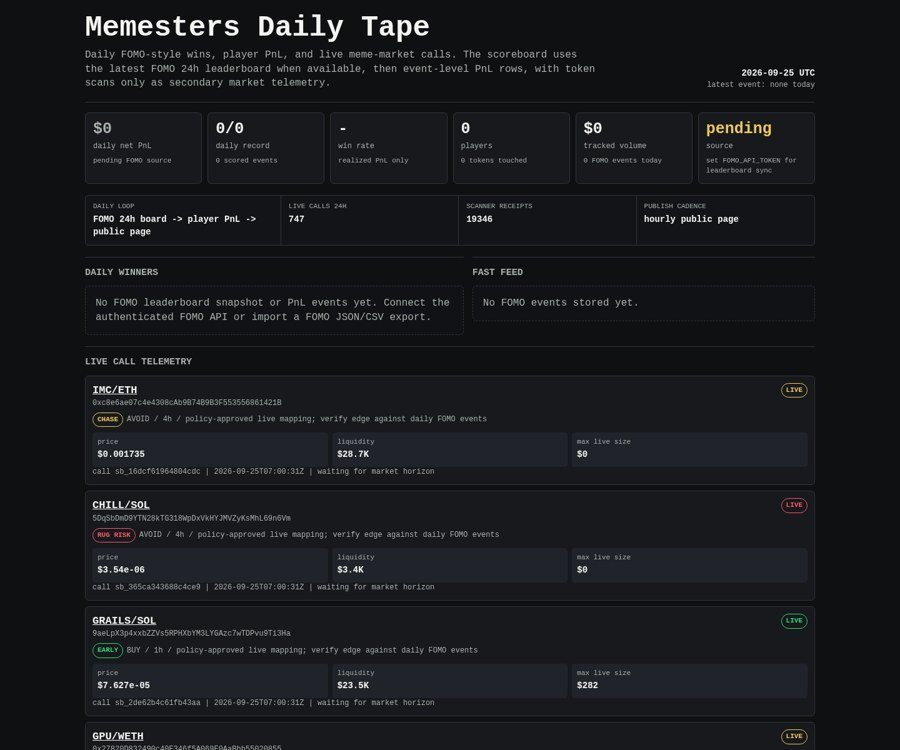
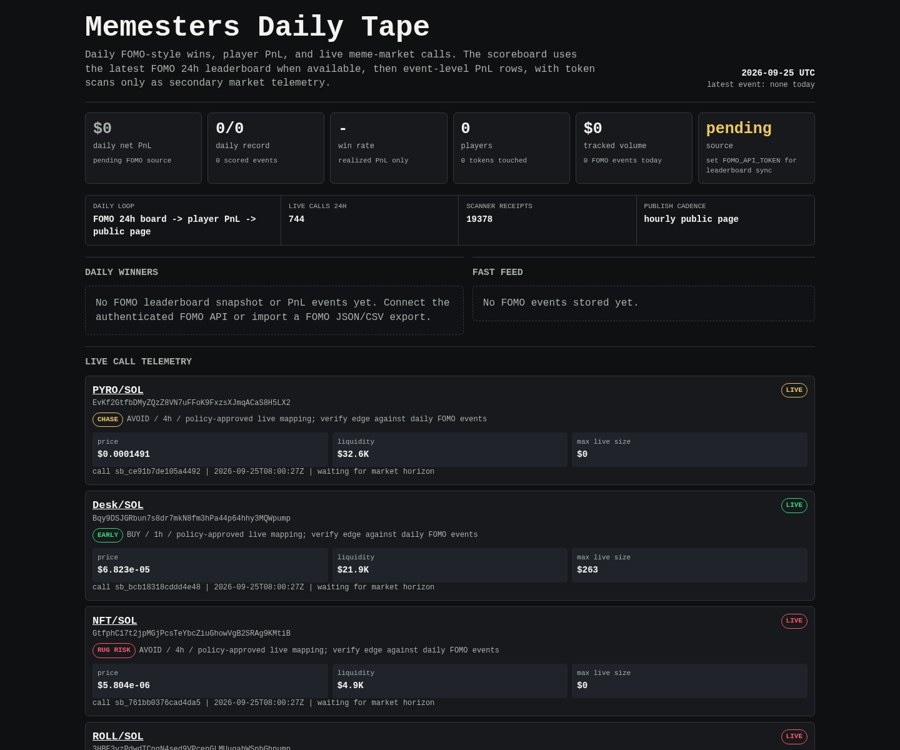
Update Memesters scoreboard

diff --git a/memesters/index.html b/memesters/index.html
@@ -149,8 +149,8 @@
 
     <div class="rail" aria-label="live operating loop">
       <div><span>daily loop</span><b>FOMO 24h board -> player PnL -> public page</b></div>
-      <div><span>live calls 24h</span><b>747</b></div>
-      <div><span>scanner receipts</span><b>19346</b></div>
+      <div><span>live calls 24h</span><b>744</b></div>
+      <div><span>scanner receipts</span><b>19378</b></div>
       <div><span>publish cadence</span><b>hourly public page</b></div>
     </div>
 
@@ -171,8 +171,8 @@
     <article class="receipt">
       <div class="receipt-head">
         <div>
-          <div class="pair"><a href="https://dexscreener.com/ethereum/0x015940c5d40c0d4b2237e5e5e9bf97ff194b0ea006f2c00add1e34b182e51b80">IMC/ETH</a></div>
-          <div class="addr">0xc8e6ae07c4e4308cAb9B74B9B3F553556861421B</div>
+          <div class="pair"><a href="https://dexscreener.com/solana/b4a9heild6bzngr7daf57f8usc9tvvfhtvddgvhgnenm">PYRO/SOL</a></div>
+          <div class="addr">EvKf2GtfbDMyZQzZ8VN7uFFoK9FxzsXJmqACaS8H5LX2</div>
           <div class="addr policy-line">
             <span class="badge chase">CHASE</span>
             <span>AVOID / 4h / policy-approved live mapping; verify edge against daily FOMO events</span>
@@ -181,40 +181,19 @@
         <span class="badge chase">LIVE</span>
       </div>
       <div class="receipt-grid">
-        <div class="kv"><span>price</span><b>$0.001735</b></div>
-        <div class="kv"><span>liquidity</span><b>$28.7K</b></div>
+        <div class="kv"><span>price</span><b>$0.0001491</b></div>
+        <div class="kv"><span>liquidity</span><b>$32.6K</b></div>
         <div class="kv"><span>max live size</span><b>$0</b></div>
       </div>
-      <div class="outcomes">call sb_16dcf61964804cdc | 2026-09-25T07:00:31Z | waiting for market horizon</div>
+      <div class="outcomes">call sb_ce91b7de105a4492 | 2026-09-25T08:00:27Z | waiting for market horizon</div>
     </article>
     
 
     <article class="receipt">
       <div class="receipt-head">
         <div>
-          <div class="pair"><a href="https://dexscreener.com/solana/cczcc2zsvqntky92jrtsvdnjw5ekxmzm4deys3fwbbh5">CHILL/SOL</a></div>
-          <div class="addr">5DqSbDmD9YTN28kTG318WpDxVkHYJMVZyKsMhL69n6Vm</div>
-          <div class="addr policy-line">
-            <span class="badge rug-risk">RUG RISK</span>
-            <span>AVOID / 4h / policy-approved live mapping; verify edge against daily FOMO events</span>
-          </div>
-        </div>
-        <span class="badge rug-risk">LIVE</span>
-      </div>
-      <div class="receipt-grid">
-        <div class="kv"><span>price</span><b>$3.54e-06</b></div>
-        <div class="kv"><span>liquidity</span><b>$3.4K</b></div>
-        <div class="kv"><span>max live size</span><b>$0</b></div>
-      </div>
-      <div class="outcomes">call sb_365ca343688c4ce9 | 2026-09-25T07:00:31Z | waiting for market horizon</div>
-    </article>
-    
-
-    <article class="receipt">
-      <div class="receipt-head">
-        <div>
-          <div class="pair"><a href="https://dexscreener.com/solana/5cnapaswfynaw911gmquyqpz9p5yyk416t59ki3leg3q">GRAILS/SOL</a></div>
-          <div class="addr">9aeLpX3p4xxbZZVs5RPHXbYM3LYGAzc7wTDPvu9Ti3Ha</div>
+          <div class="pair"><a href="https://dexscreener.com/solana/3diqybcjf2fr5mhpjxia5rr4mhgstxjlmyztlzc2vlho">Desk/SOL</a></div>
+          <div class="addr">Bqy9DSJGRbun7s8dr7mkN8fm3hPa44p64hhy3MQWpump</div>
           <div class="addr policy-line">
             <span class="badge early">EARLY</span>
             <span>BUY / 1h / policy-approved live mapping; verify edge against daily FOMO events</span>
@@ -223,19 +202,61 @@
         <span class="badge early">LIVE</span>
       </div>
       <div class="receipt-grid">
-        <div class="kv"><span>price</span><b>$7.627e-05</b></div>
-        <div class="kv"><span>liquidity</span><b>$23.5K</b></div>
-        <div class="kv"><span>max live size</span><b>$282</b></div>
+        <div class="kv"><span>price</span><b>$6.823e-05</b></div>
+        <div class="kv"><span>liquidity</span><b>$21.9K</b></div>
+        <div class="kv"><span>max live size</span><b>$263</b></div>
       </div>
-      <div class="outcomes">call sb_2de62b4c61fb43aa | 2026-09-25T07:00:31Z | waiting for market horizon</div>
+      <div class="outcomes">call sb_bcb18318cddd4e48 | 2026-09-25T08:00:27Z | waiting for market horizon</div>
     </article>
     
 
     <article class="receipt">
       <div class="receipt-head">
         <div>
-          <div class="pair"><a href="https://dexscreener.com/robinhood/0x8009034c2beed25925d6dd75d0948e4887bdbb65">GPU/WETH</a></div>
-          <div class="addr">0x27820D832490c40E346f5A069E0AaBbb55020855</div>
+          <div class="pair"><a href="https://dexscreener.com/solana/hrew3qtcwicgmlrzu7yduthwrejg9cgk6vh1yjvbzpuu">NFT/SOL</a></div>
+          <div class="addr">GtfphC17t2jpMGjPcsTeYbcZiuGhowVgB2SRAg9KMtiB</div>
+          <div class="addr policy-line">
+            <span class="badge rug-risk">RUG RISK</span>
+            <span>AVOID / 4h / policy-approved live mapping; verify edge against daily FOMO events</span>
+          </div>
+        </div>
+        <span class="badge rug-risk">LIVE</span>
+      </div>
+      <div class="receipt-grid">
+        <div class="kv"><span>price</span><b>$5.804e-06</b></div>
+        <div class="kv"><span>liquidity</span><b>$4.9K</b></div>
+        <div class="kv"><span>max live size</span><b>$0</b></div>
+      </div>
+      <div class="outcomes">call sb_761bb0376cad4da5 | 2026-09-25T08:00:27Z | waiting for market horizon</div>
+    </article>
+    
+
+    <article class="receipt">
+      <div class="receipt-head">
+        <div>
+          <div class="pair"><a href="https://dexscreener.com/solana/8yahe11ooefpqzoxvwfn2rkvrpdnbevsbcjxj5fme5pi">ROLL/SOL</a></div>
+          <div class="addr">3HBE3vzPdwdTCpgN4sed9VPcepGLMUugahWSpbGhpump</div>
+          <div class="addr policy-line">
+            <span class="badge rug-risk">RUG RISK</span>
+            <span>AVOID / 4h / policy-approved live mapping; verify edge against daily FOMO events</span>
+          </div>
+        </div>
+        <span class="badge rug-risk">LIVE</span>
+      </div>
+      <div class="receipt-grid">
+        <div class="kv"><span>price</span><b>$9.717e-06</b></div>
+        <div class="kv"><span>liquidity</span><b>$6.9K</b></div>
+        <div class="kv"><span>max live size</span><b>$0</b></div>
+      </div>
+      <div class="outcomes">call sb_f13e3848041a4600 | 2026-09-25T08:00:27Z | waiting for market horizon</div>
+    </article>
+    
+
+    <article class="receipt">
+      <div class="receipt-head">
+        <div>
+          <div class="pair"><a href="https://dexscreener.com/solana/ejfrhusrecjcauqfyl8gyvb84ya4kgrpfyiuin5l9bvt">CLOCKOUT/SOL</a></div>
+          <div class="addr">8NHMCoBLK5HCg9vPGNuBYQLG6fQoxf3cQj46EKokpump</div>
           <div class="addr policy-line">
             <span class="badge chase">CHASE</span>
             <span>AVOID / 4h / policy-approved live mapping; verify edge against daily FOMO events</span>
@@ -244,11 +265,53 @@
         <span class="badge chase">LIVE</span>
       </div>
       <div class="receipt-grid">
-        <div class="kv"><span>price</span><b>$0.0001501</b></div>
-        <div class="kv"><span>liquidity</span><b>$73.0K</b></div>
+        <div class="kv"><span>price</span><b>$0.0001416</b></div>
+        <div class="kv"><span>liquidity</span><b>$36.4K</b></div>
         <div class="kv"><span>max live size</span><b>$0</b></div>
       </div>
-      <div class="outcomes">call sb_7214f92ecdf64731 | 2026-09-25T07:00:31Z | waiting for market horizon</div>
+      <div class="outcomes">call sb_d216719f4bb24f1f | 2026-09-25T08:00:27Z | waiting for market horizon</div>
+    </article>
+    
+
+    <article class="receipt">
+      <div class="receipt-head">
+        <div>
+          <div class="pair"><a href="https://dexscreener.com/solana/14n4n6emjhfjpopy76cb5za2fdjud4d88utafpy47xdq">Adora/SOL</a></div>
+          <div class="addr">G4i1oQ9QHpZt8jVwomeroySgUpk8gHv7SuyjJBr2QNQj</div>
+          <div class="addr policy-line">
+            <span class="badge early">EARLY</span>
+            <span>BUY / 1h / policy-approved live mapping; verify edge against daily FOMO events</span>
+          </div>
+        </div>
+        <span class="badge early">LIVE</span>
+      </div>
+      <div class="receipt-grid">
+        <div class="kv"><span>price</span><b>$7.438e-05</b></div>
+        <div class="kv"><span>liquidity</span><b>$22.8K</b></div>
+        <div class="kv"><span>max live size</span><b>$274</b></div>
+      </div>
+      <div class="outcomes">call sb_a35b7a2832ef47ff | 2026-09-25T08:00:27Z | waiting for market horizon</div>
+    </article>
+    
+
+    <article class="receipt">
+      <div class="receipt-head">
+        <div>
+          <div class="pair"><a href="https://dexscreener.com/robinhood/0x438f3e191bbc97e22c629d2680e632e34ecefb0d5972fc8d76b34dcd500928d9">MONTY/WETH</a></div>
+          <div class="addr">0x309e847c2528C4E37de2074b71F39C9f2C907ba3</div>
+          <div class="addr policy-line">
+            <span class="badge rug-risk">RUG RISK</span>
+            <span>AVOID / 4h / policy-approved live mapping; verify edge against daily FOMO events</span>
+          </div>
+        </div>
+        <span class="badge rug-risk">LIVE</span>
+      </div>
+      <div class="receipt-grid">
+        <div class="kv"><span>price</span><b>$3.406e-07</b></div>
+        <div class="kv"><span>liquidity</span><b>$27.3K</b></div>
+        <div class="kv"><span>max live size</span><b>$0</b></div>
+      </div>
+      <div class="outcomes">call sb_5e8a15dc79374e33 | 2026-09-25T07:45:27Z | waiting for market horizon</div>
     </article>
     
 
@@ -265,11 +328,11 @@
         <span class="badge chase">LIVE</span>
       </div>
       <div class="receipt-grid">
-        <div class="kv"><span>price</span><b>$8.209e-05</b></div>
-        <div class="kv"><span>liquidity</span><b>$23.9K</b></div>
+        <div class="kv"><span>price</span><b>$0.0001199</b></div>
+        <div class="kv"><span>liquidity</span><b>$29.2K</b></div>
         <div class="kv"><span>max live size</span><b>$0</b></div>
       </div>
-      <div class="outcomes">call sb_04d4608a16614f4c | 2026-09-25T07:00:31Z | waiting for market horizon</div>
+      <div class="outcomes">call sb_75f9c2b303b9414b | 2026-09-25T07:45:26Z | waiting for market horizon</div>
     </article>
     
 
@@ -286,11 +349,11 @@
         <span class="badge rug-risk">LIVE</span>
       </div>
       <div class="receipt-grid">
-        <div class="kv"><span>price</span><b>$3.64e-06</b></div>
-        <div class="kv"><span>liquidity</span><b>$5.5K</b></div>
+        <div class="kv"><span>price</span><b>$2.674e-06</b></div>
+        <div class="kv"><span>liquidity</span><b>$4.7K</b></div>
         <div class="kv"><span>max live size</span><b>$0</b></div>
       </div>
-      <div class="outcomes">call sb_358368e6fb6042a9 | 2026-09-25T07:00:31Z | waiting for market horizon</div>
+      <div class="outcomes">call sb_7aba29002c78411e | 2026-09-25T07:45:26Z | waiting for market horizon</div>
     </article>
     
 
@@ -307,74 +370,11 @@
         <span class="badge chase">LIVE</span>
       </div>
       <div class="receipt-grid">
-        <div class="kv"><span>price</span><b>$0.0002745</b></div>
-        <div class="kv"><span>liquidity</span><b>$44.4K</b></div>
+        <div class="kv"><span>price</span><b>$0.0002726</b></div>
+        <div class="kv"><span>liquidity</span><b>$44.2K</b></div>
         <div class="kv"><span>max live size</span><b>$0</b></div>
       </div>
-      <div class="outcomes">call sb_d261a48b13dd43ee | 2026-09-25T07:00:31Z | waiting for market horizon</div>
-    </article>
-    
-
-    <article class="receipt">
-      <div class="receipt-head">
-        <div>
-          <div class="pair"><a href="https://dexscreener.com/solana/8fnzvgdcav5fk2hr9hknzvxrkabqnpfuwi1vxrtv65yi">F2G/SOL</a></div>
-          <div class="addr">3aom1gqjVhPEgxH2voXXTFCG2hzgM3XLk4iEy5vRpump</div>
-          <div class="addr policy-line">
-            <span class="badge rug-risk">RUG RISK</span>
-            <span>AVOID / 4h / policy-approved live mapping; verify edge against daily FOMO events</span>
-          </div>
-        </div>
-        <span class="badge rug-risk">LIVE</span>
-      </div>
-      <div class="receipt-grid">
-        <div class="kv"><span>price</span><b>$3.969e-06</b></div>
-        <div class="kv"><span>liquidity</span><b>$4.7K</b></div>
-        <div class="kv"><span>max live size</span><b>$0</b></div>
-      </div>
-      <div class="outcomes">call sb_6ce8e24d26c043cc | 2026-09-25T06:45:27Z | waiting for market horizon</div>
-    </article>
-    
-
-    <article class="receipt">
-      <div class="receipt-head">
-        <div>
-          <div class="pair"><a href="https://dexscreener.com/bsc/0x5a0f99945abccbfe1b0ff083d7e96bd50aa82bcd">币安月饼/AAPLB</a></div>
-          <div class="addr">0x4392cBaE887bb2CcF3d58bc4D04F782c76B47777</div>
-          <div class="addr policy-line">
-            <span class="badge early">EARLY</span>
-            <span>BUY / 1h / policy-approved live mapping; verify edge against daily FOMO events</span>
-          </div>
-        </div>
-        <span class="badge early">LIVE</span>
-      </div>
-      <div class="receipt-grid">
-        <div class="kv"><span>price</span><b>$0.000101</b></div>
-        <div class="kv"><span>liquidity</span><b>$66.1K</b></div>
-        <div class="kv"><span>max live size</span><b>$117</b></div>
-      </div>
-      <div class="outcomes">call sb_57cd50d07cfc48b2 | 2026-09-25T06:45:27Z | waiting for market horizon</div>
-    </article>
-    
-
-    <article class="receipt">
-      <div class="receipt-head">
-        <div>
-          <div class="pair"><a href="https://dexscreener.com/ethereum/0x015940c5d40c0d4b2237e5e5e9bf97ff194b0ea006f2c00add1e34b182e51b80">IMC/ETH</a></div>
-          <div class="addr">0xc8e6ae07c4e4308cAb9B74B9B3F553556861421B</div>
-          <div class="addr policy-line">
-            <span class="badge chase">CHASE</span>
-            <span>AVOID / 4h / policy-approved live mapping; verify edge against daily FOMO events</span>
-          </div>
-        </div>
-        <span class="badge chase">LIVE</span>
-      </div>
-      <div class="receipt-grid">
-        <div class="kv"><span>price</span><b>$0.001691</b></div>
-        <div class="kv"><span>liquidity</span><b>$28.2K</b></div>
-        <div class="kv"><span>max live size</span><b>$0</b></div>
-      </div>
-      <div class="outcomes">call sb_ea346e38c130478c | 2026-09-25T06:45:26Z | waiting for market horizon</div>
+      <div class="outcomes">call sb_83264e5e02cd4928 | 2026-09-25T07:45:26Z | waiting for market horizon</div>
     </article>
     
     </section>
